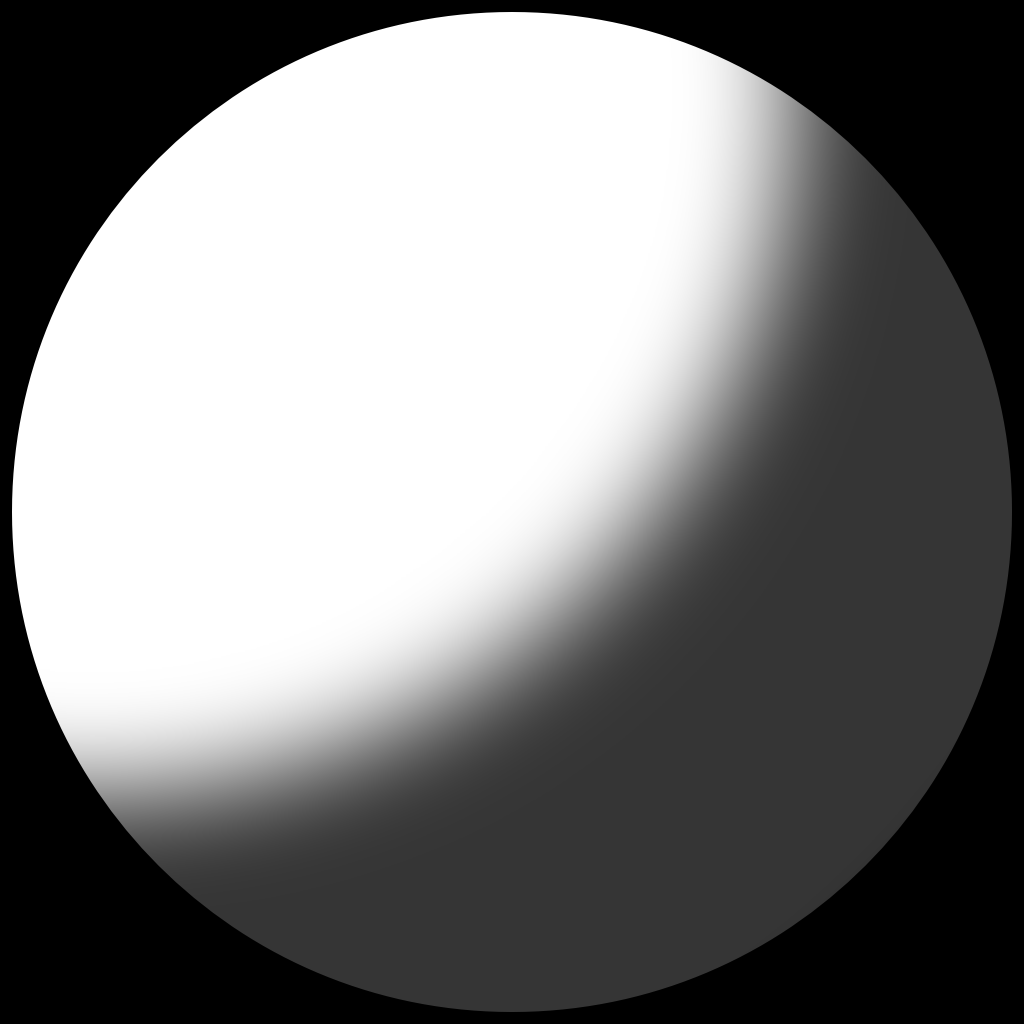
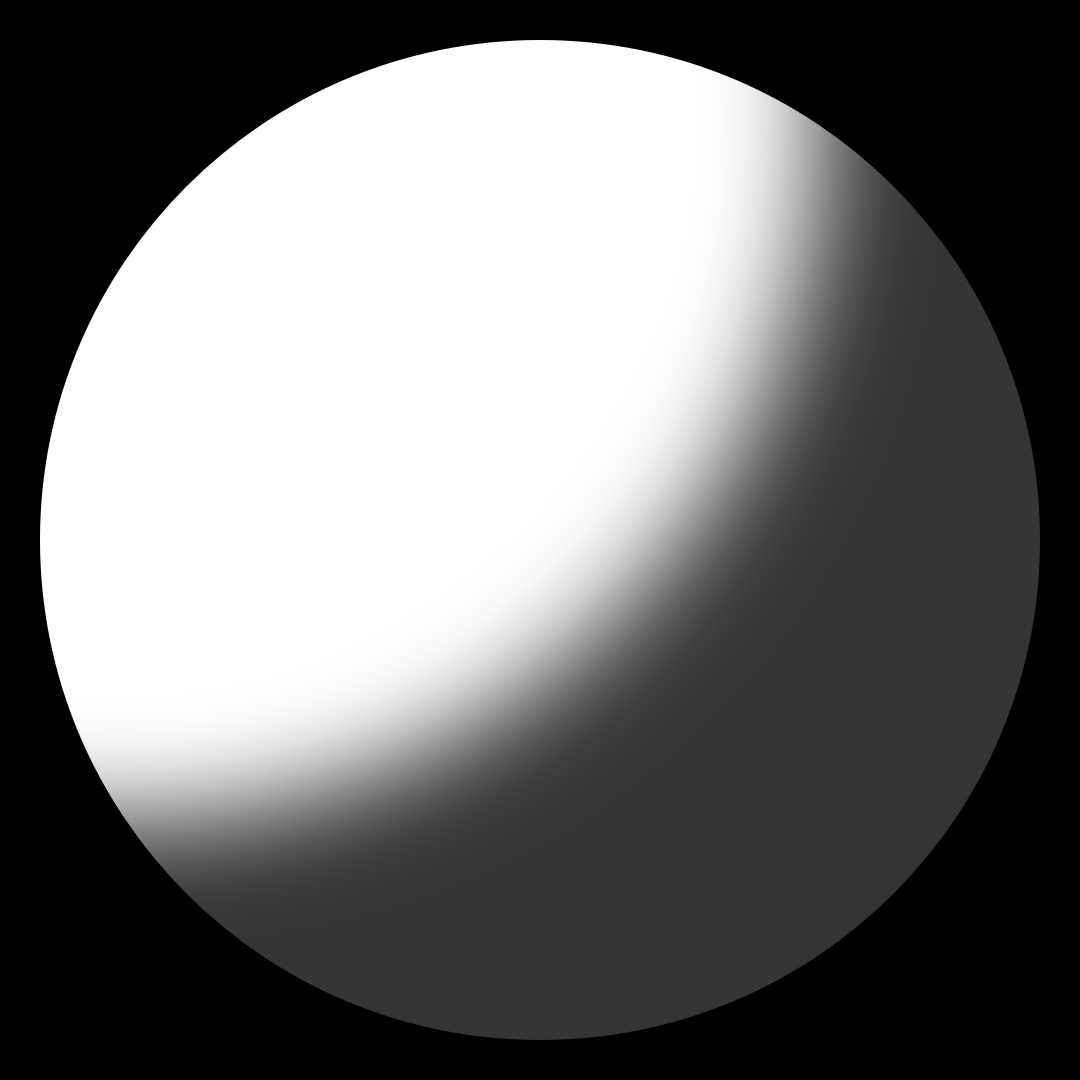
Applied new masks and added mask converting script

Changed region(s): [[0.0, 0.0, 1.0, 1.0]]

diff --git a/planet-generator/generator.py b/planet-generator/generator.py
@@ -13,8 +13,8 @@ MAX_ITERATIONS = 50
 
 
 def generate(planet_type, filename):
-    height = 1024
-    width = 1024
+    height = 1080
+    width = 1080
     planet_height = 1000
     planet_width = 1000
 
@@ -52,7 +52,7 @@ def generate(planet_type, filename):
 
     # Pad image to full size for masking
     black = Image.new('RGB', (width, height))
-    black.paste(image, (12, 12))
+    black.paste(image, (40, 40))
     image = black
 
     # Apply shadow mask
@@ -71,6 +71,10 @@ def generate(planet_type, filename):
     image = temp2
 
     # Add atmosphere if applicable
+    atmo = Image.open('atmosphere.png')
+    atmo_mask = Image.new('L', (width, height))
+    atmo_mask.paste(atmo)
+    image.paste(atmo, mask=atmo_mask)
 
     # Downsample - resize it with filter=Image.ANTIALIAS
     print "Downsampling..."
@@ -158,4 +162,4 @@ def generate_rivers(image, noise, paths):
 if __name__ == "__main__":
     for x in range(1):
         print "Generating celestial body %d..." % x
-        generate('star', "../test%s.png" % x)
+        generate('ice', "../test%s.png" % x)

diff --git a/planet-generator/convert_masks.py b/planet-generator/convert_masks.py
@@ -1,0 +1,12 @@
+from PIL import Image
+
+
+mask1 = Image.open('shadow-mask.png')
+temp1 = Image.new('L', (1080, 1080))
+temp1.paste(mask1)
+temp1.save('shadow-mask2.png')
+
+mask2 = Image.open('transparency-mask.png')
+temp2 = Image.new('L', (1080, 1080))
+temp2.paste(mask2)
+temp2.save('transparency-mask2.png')
